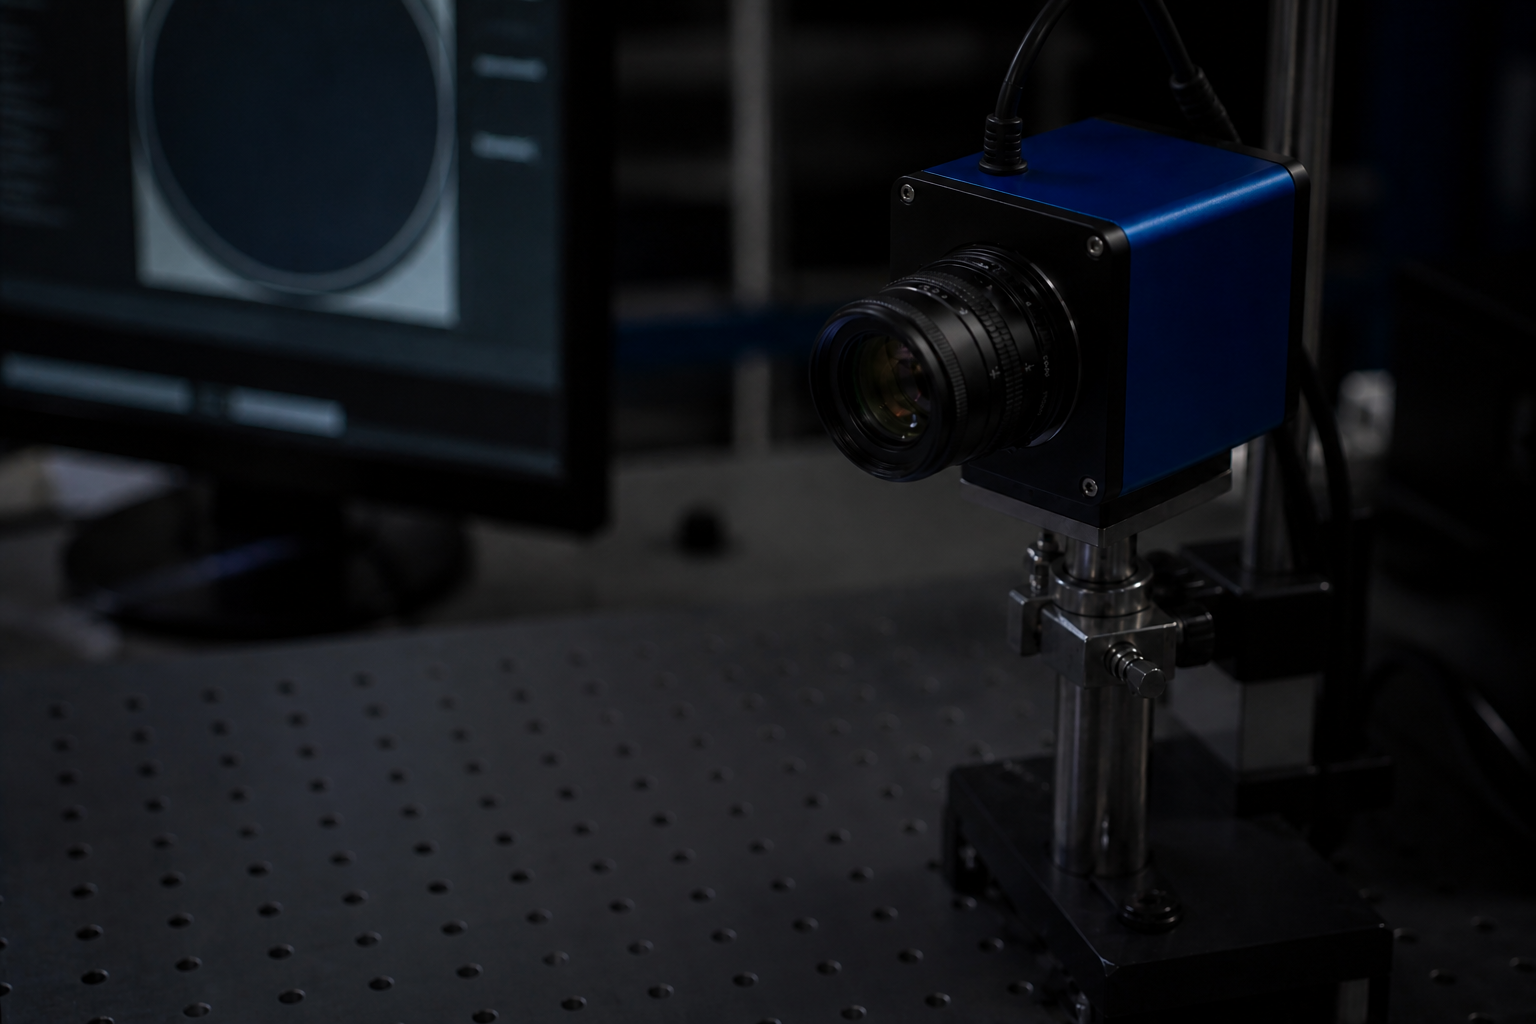
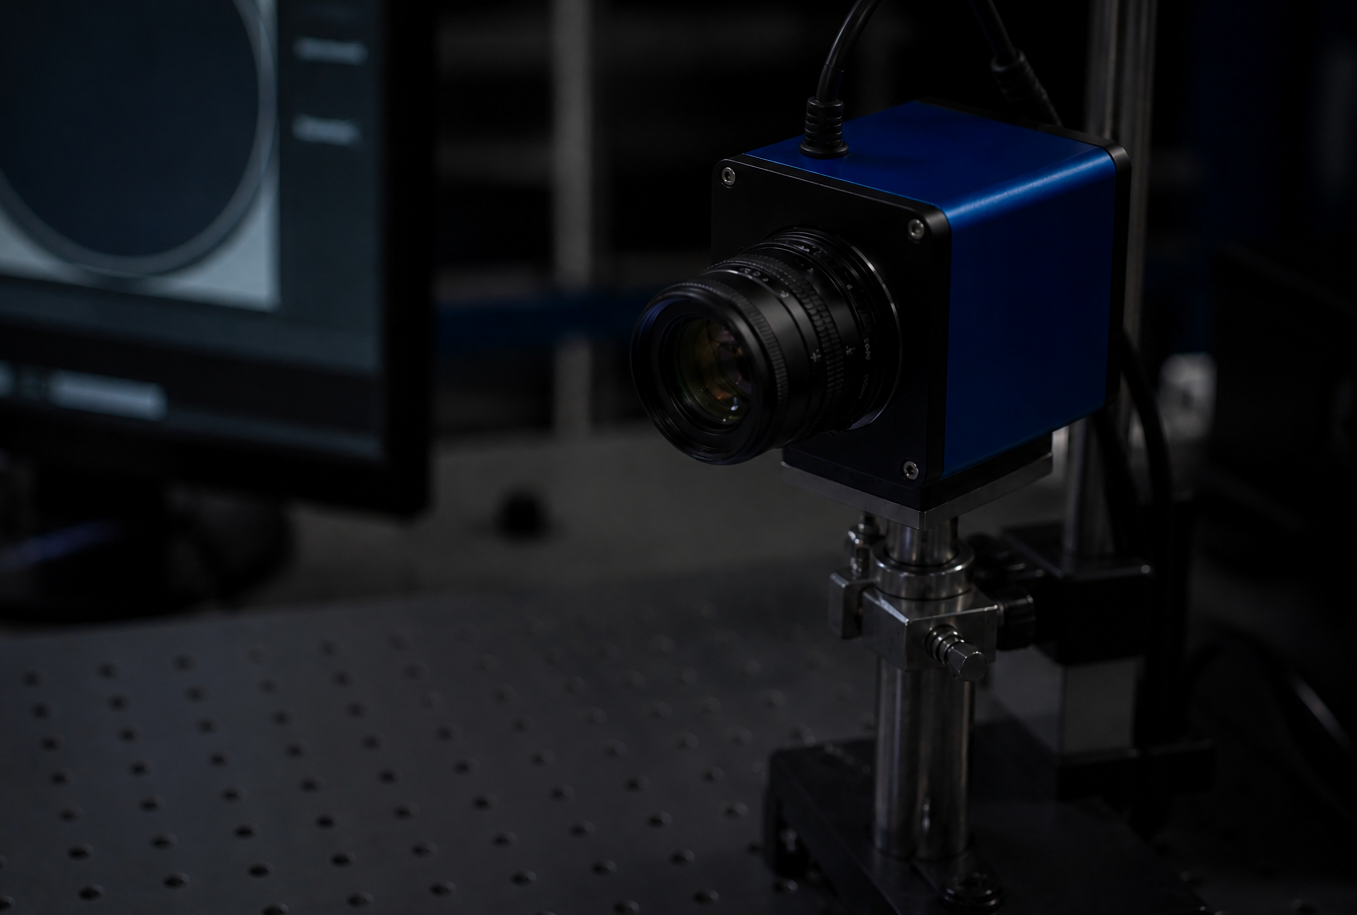
Polished Image Containers

diff --git a/data/portfolio.ts b/data/portfolio.ts
@@ -120,7 +120,7 @@ export const projects: Project[] = [
   {
     title: "Vision-Based Inspection System",
     description:
-      "A precision computer vision system for automated optical inspection and facet measurement using OpenCV pipelines, edge detection, and morphological analysis to validate dimensional tolerances and provide real-time measurement feedback for robotic manufacturing workflows.",
+      "A precision computer vision system for automated optical element inspection and facet measurement using OpenCV pipelines, edge detection, and morphological analysis to validate dimensional tolerances and provide real-time measurement feedback for robotic manufacturing workflows.",
     image: "/projects/ComputerVision.png",
     stack: ["Canny Edge Detection", "Morphological Closing", "Gaussian Filtering", "Metric Calibration"],
     label: "COMPUTER VISION"

diff --git a/sections/experience-section.tsx b/sections/experience-section.tsx
@@ -15,7 +15,6 @@ export function ExperienceSection() {
           <SectionHeading
             eyebrow="Experience"
             title="Applied engineering across software, robotics, and intelligent systems."
-            description="From EEG signal processing to robotics and computer vision, the focus has consistently been on building reliable systems with practical applications."
           />
         </Reveal>
 
